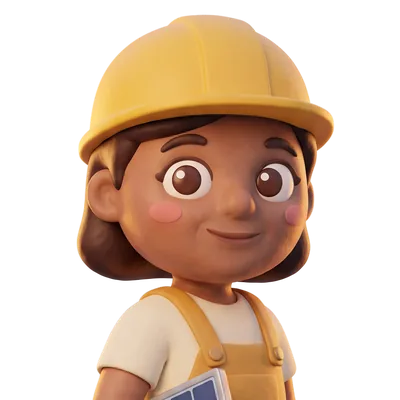
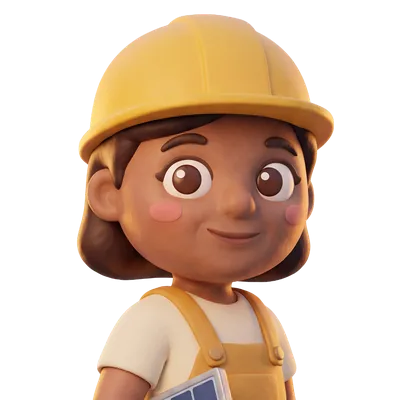
chispa 2.5.3: personajes con recorte limpio
- Los siete personajes reemplazados por recortes hechos a mano, con sus caras.

diff --git a/sw.js b/sw.js
@@ -1,6 +1,6 @@
 /* chispa · service worker: guarda la app y sus ilustraciones para que abra sin internet. No envía nada a ningún lado. */
 'use strict';
-const VERSION = 'chispa-v2.5.2';
+const VERSION = 'chispa-v2.5.3';
 const VOZ = 'chispa-voz-1';
 importScripts('js/imagenes.js', 'js/audios.js');
 const NUCLEO = ['./', './index.html', './manifest.webmanifest', './css/chispa.css',
